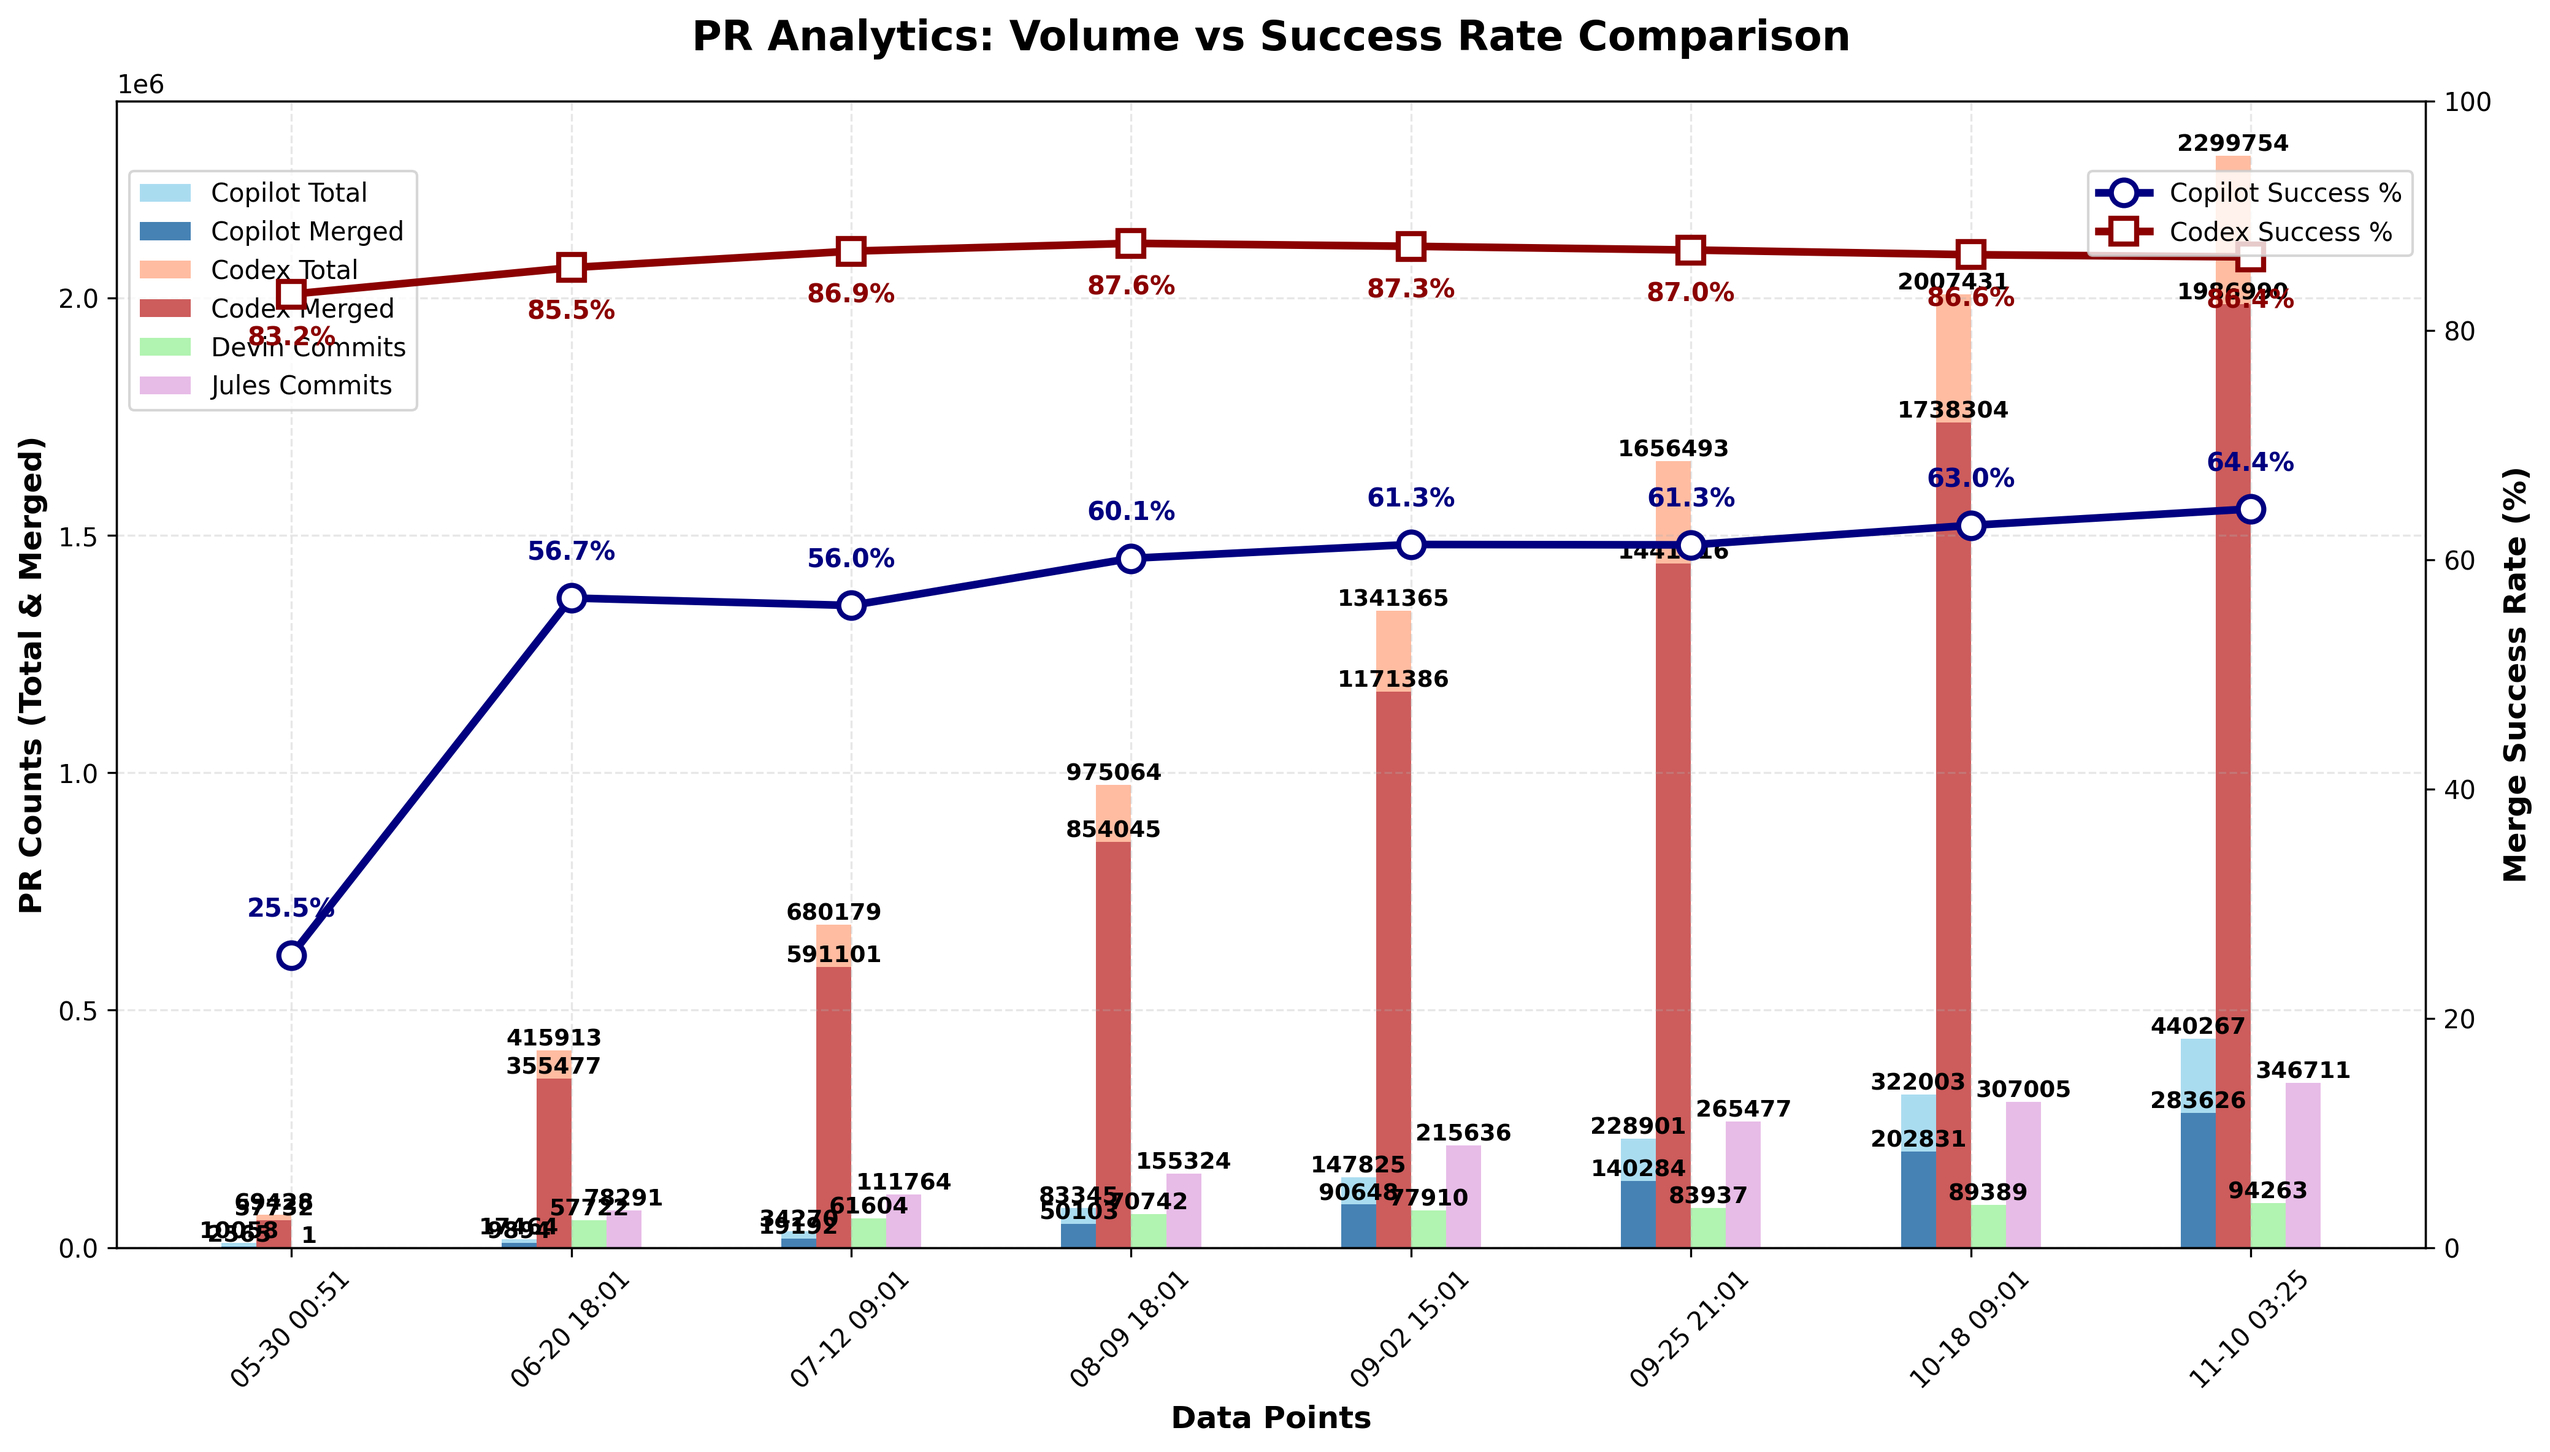
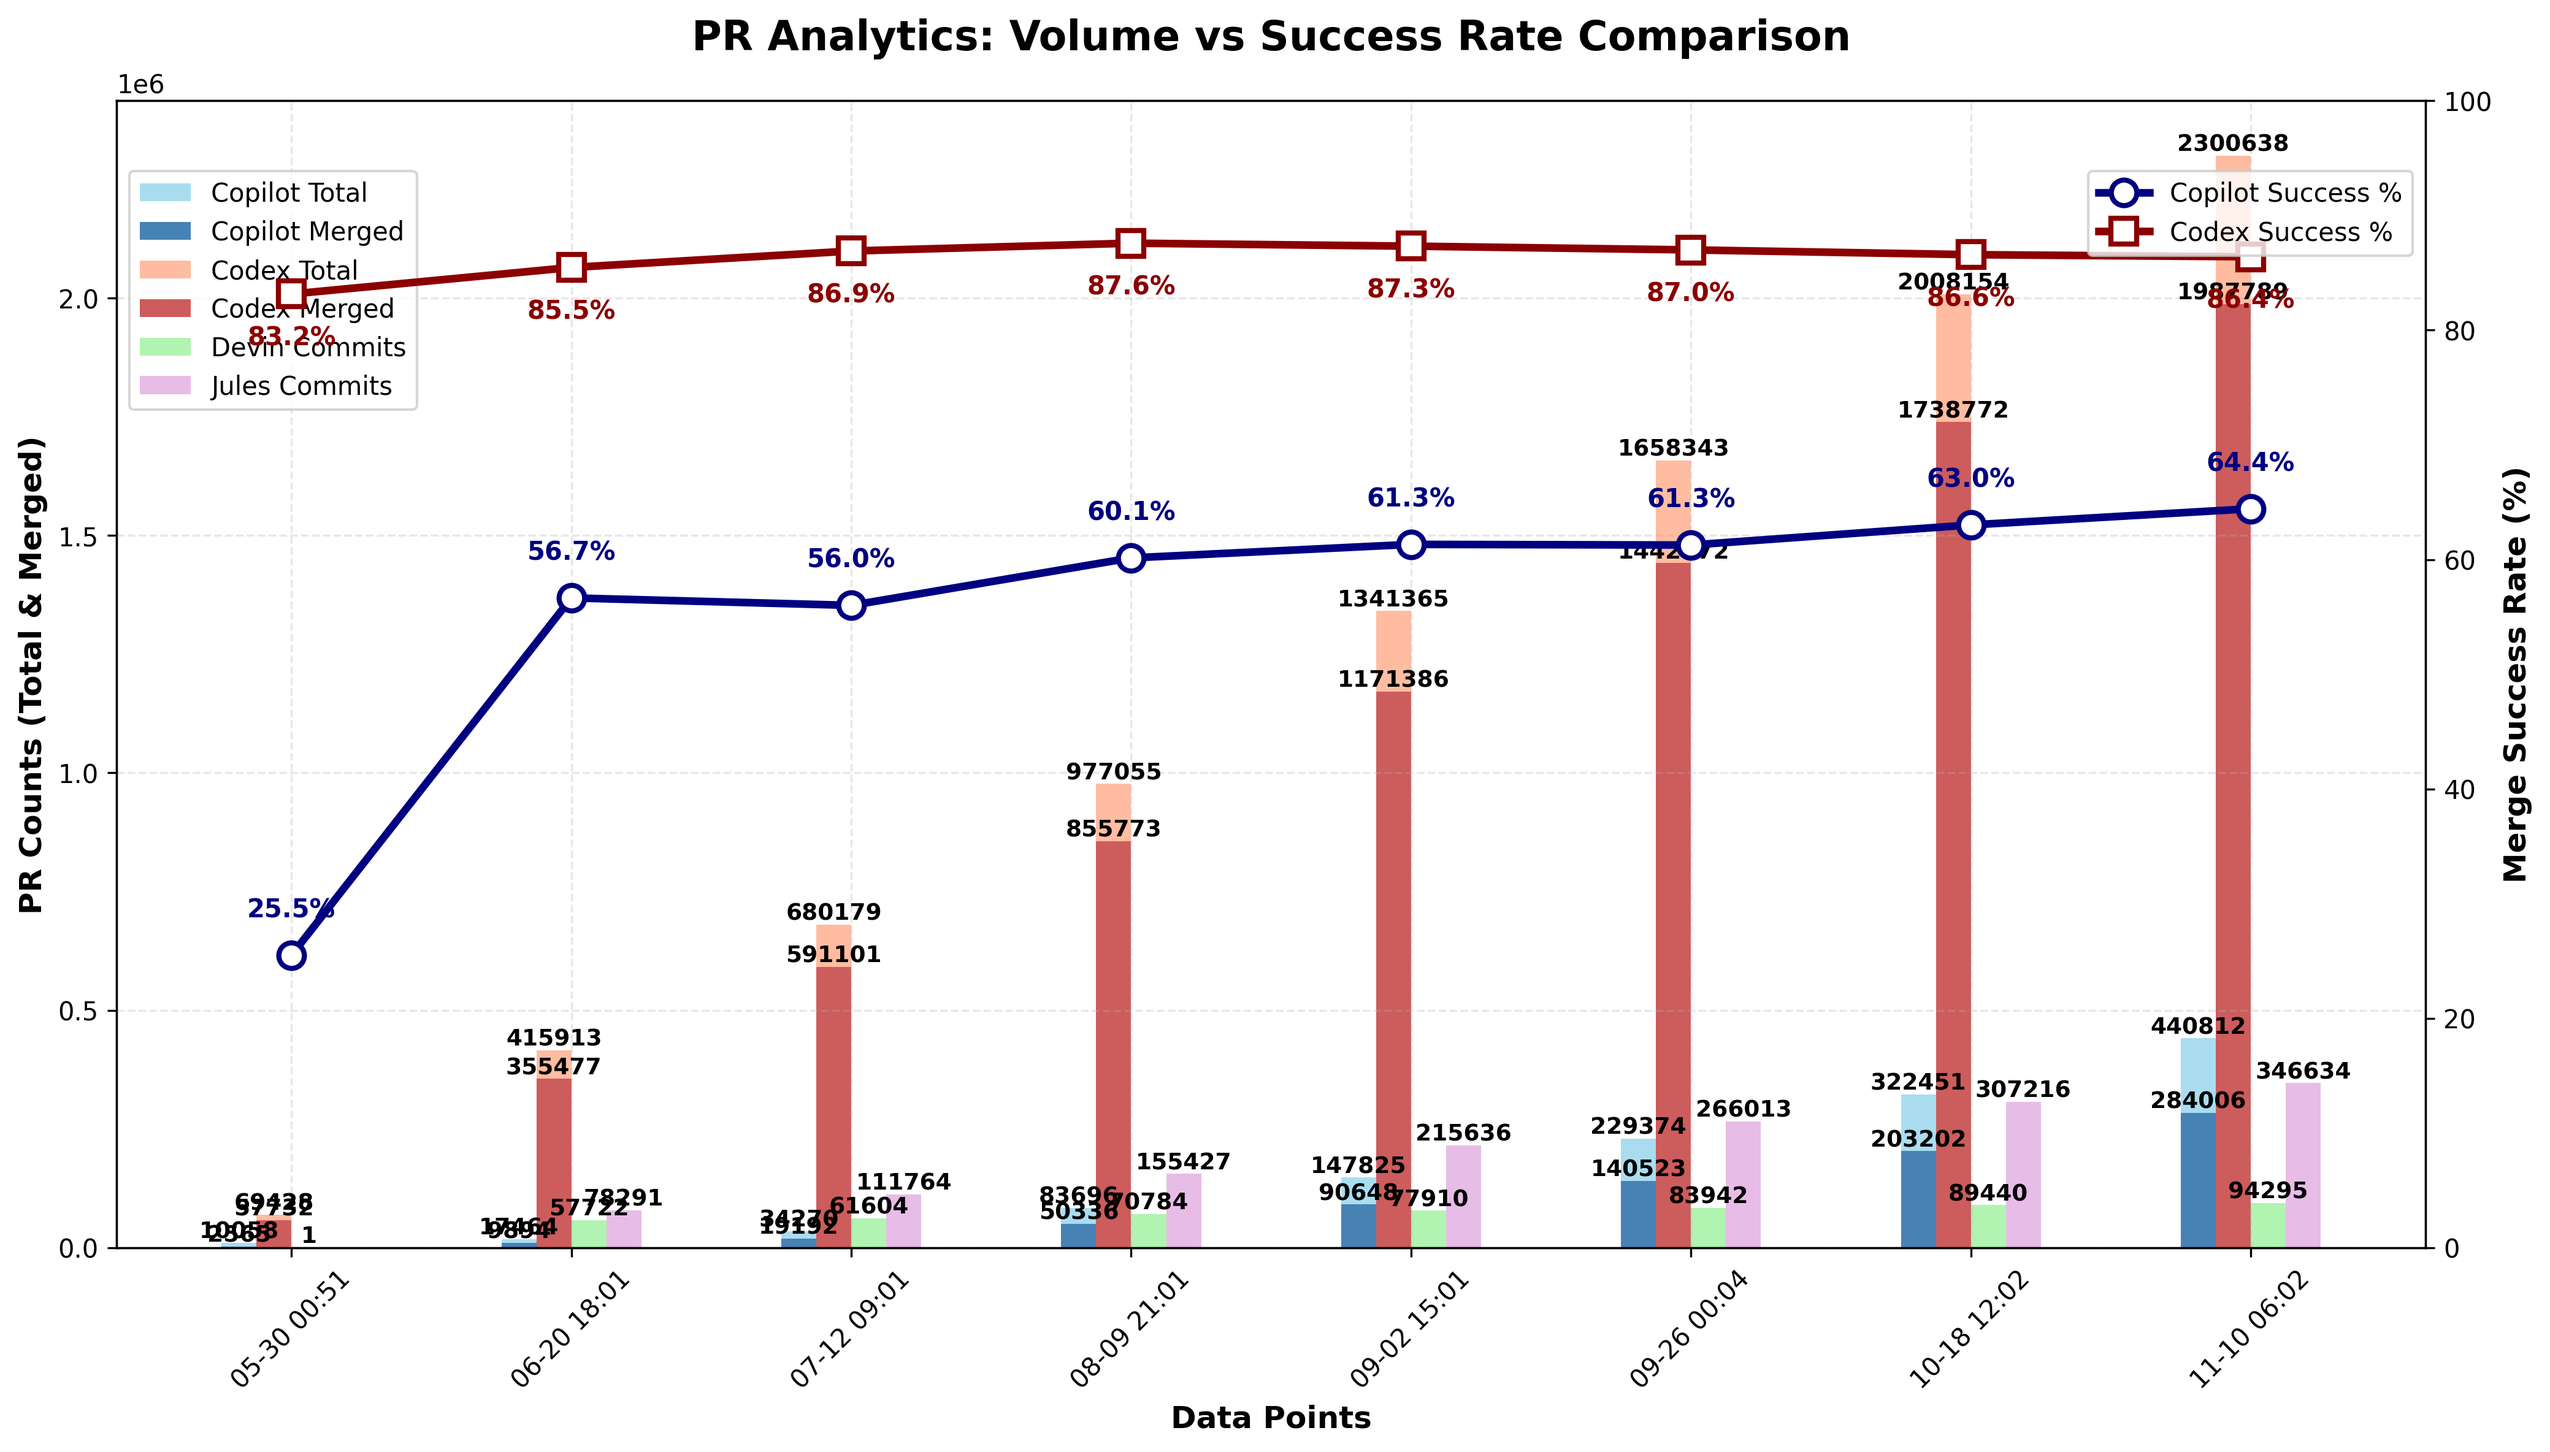
chore: update PR‑approval chart

diff --git a/docs/index.html b/docs/index.html
@@ -1261,6 +1261,7 @@
                         <td>N/A</td>
                         <td>N/A</td>
                         <td>N/A</td>
+                        <td>N/A</td>
                     </tr>
                     <tr>
                         <td>Codex</td>
@@ -2480,27 +2481,28 @@
                         <td>N/A</td>
                         <td>N/A</td>
                         <td>N/A</td>
+                        <td>N/A</td>
                     </tr>
                 <tr>
                         <td>Devin</td>
                         <td>N/A</td>
                         <td>N/A</td>
                         <td>N/A</td>
-                        <td>94,263</td>
+                        <td>94,295</td>
                     </tr>
                     <tr>
                         <td>Jules</td>
                         <td>N/A</td>
                         <td>N/A</td>
                         <td>N/A</td>
-                        <td>346,711</td>
+                        <td>346,634</td>
                     </tr>
                     </tbody>
             </table>
         </section>
 
         <footer>
-            <p>Last updated: <span id="last-updated">November 10, 2025 03:25 UTC</span></p>
+            <p>Last updated: <span id="last-updated">November 10, 2025 06:02 UTC</span></p>
             <p><a href="https://github.com/aavetis/ai-pr-watcher">View on GitHub</a></p>
         </footer>
     </div>

diff --git a/README.md b/README.md
@@ -19,7 +19,7 @@ Explore the GitHub search queries used:
 
 | Service | Total PRs | Merged PRs | Merge Rate | Total Commits |
 | ------- | --------- | ---------- | ---------- | ------------- |
-| Copilot | 440,267 | 283,626 | 64.42% | N/A           |
-| Codex   | 2,299,754 | 1,986,990 | 86.40% | N/A           |
-| Devin   | N/A       | N/A        | N/A        | 94,263 |
-| Jules   | N/A       | N/A        | N/A        | 346,711 |
+| Copilot | 440,812 | 284,006 | 64.43% | N/A           |
+| Codex   | 2,300,638 | 1,987,789 | 86.40% | N/A           |
+| Devin   | N/A       | N/A        | N/A        | 94,295 |
+| Jules   | N/A       | N/A        | N/A        | 346,634 |
